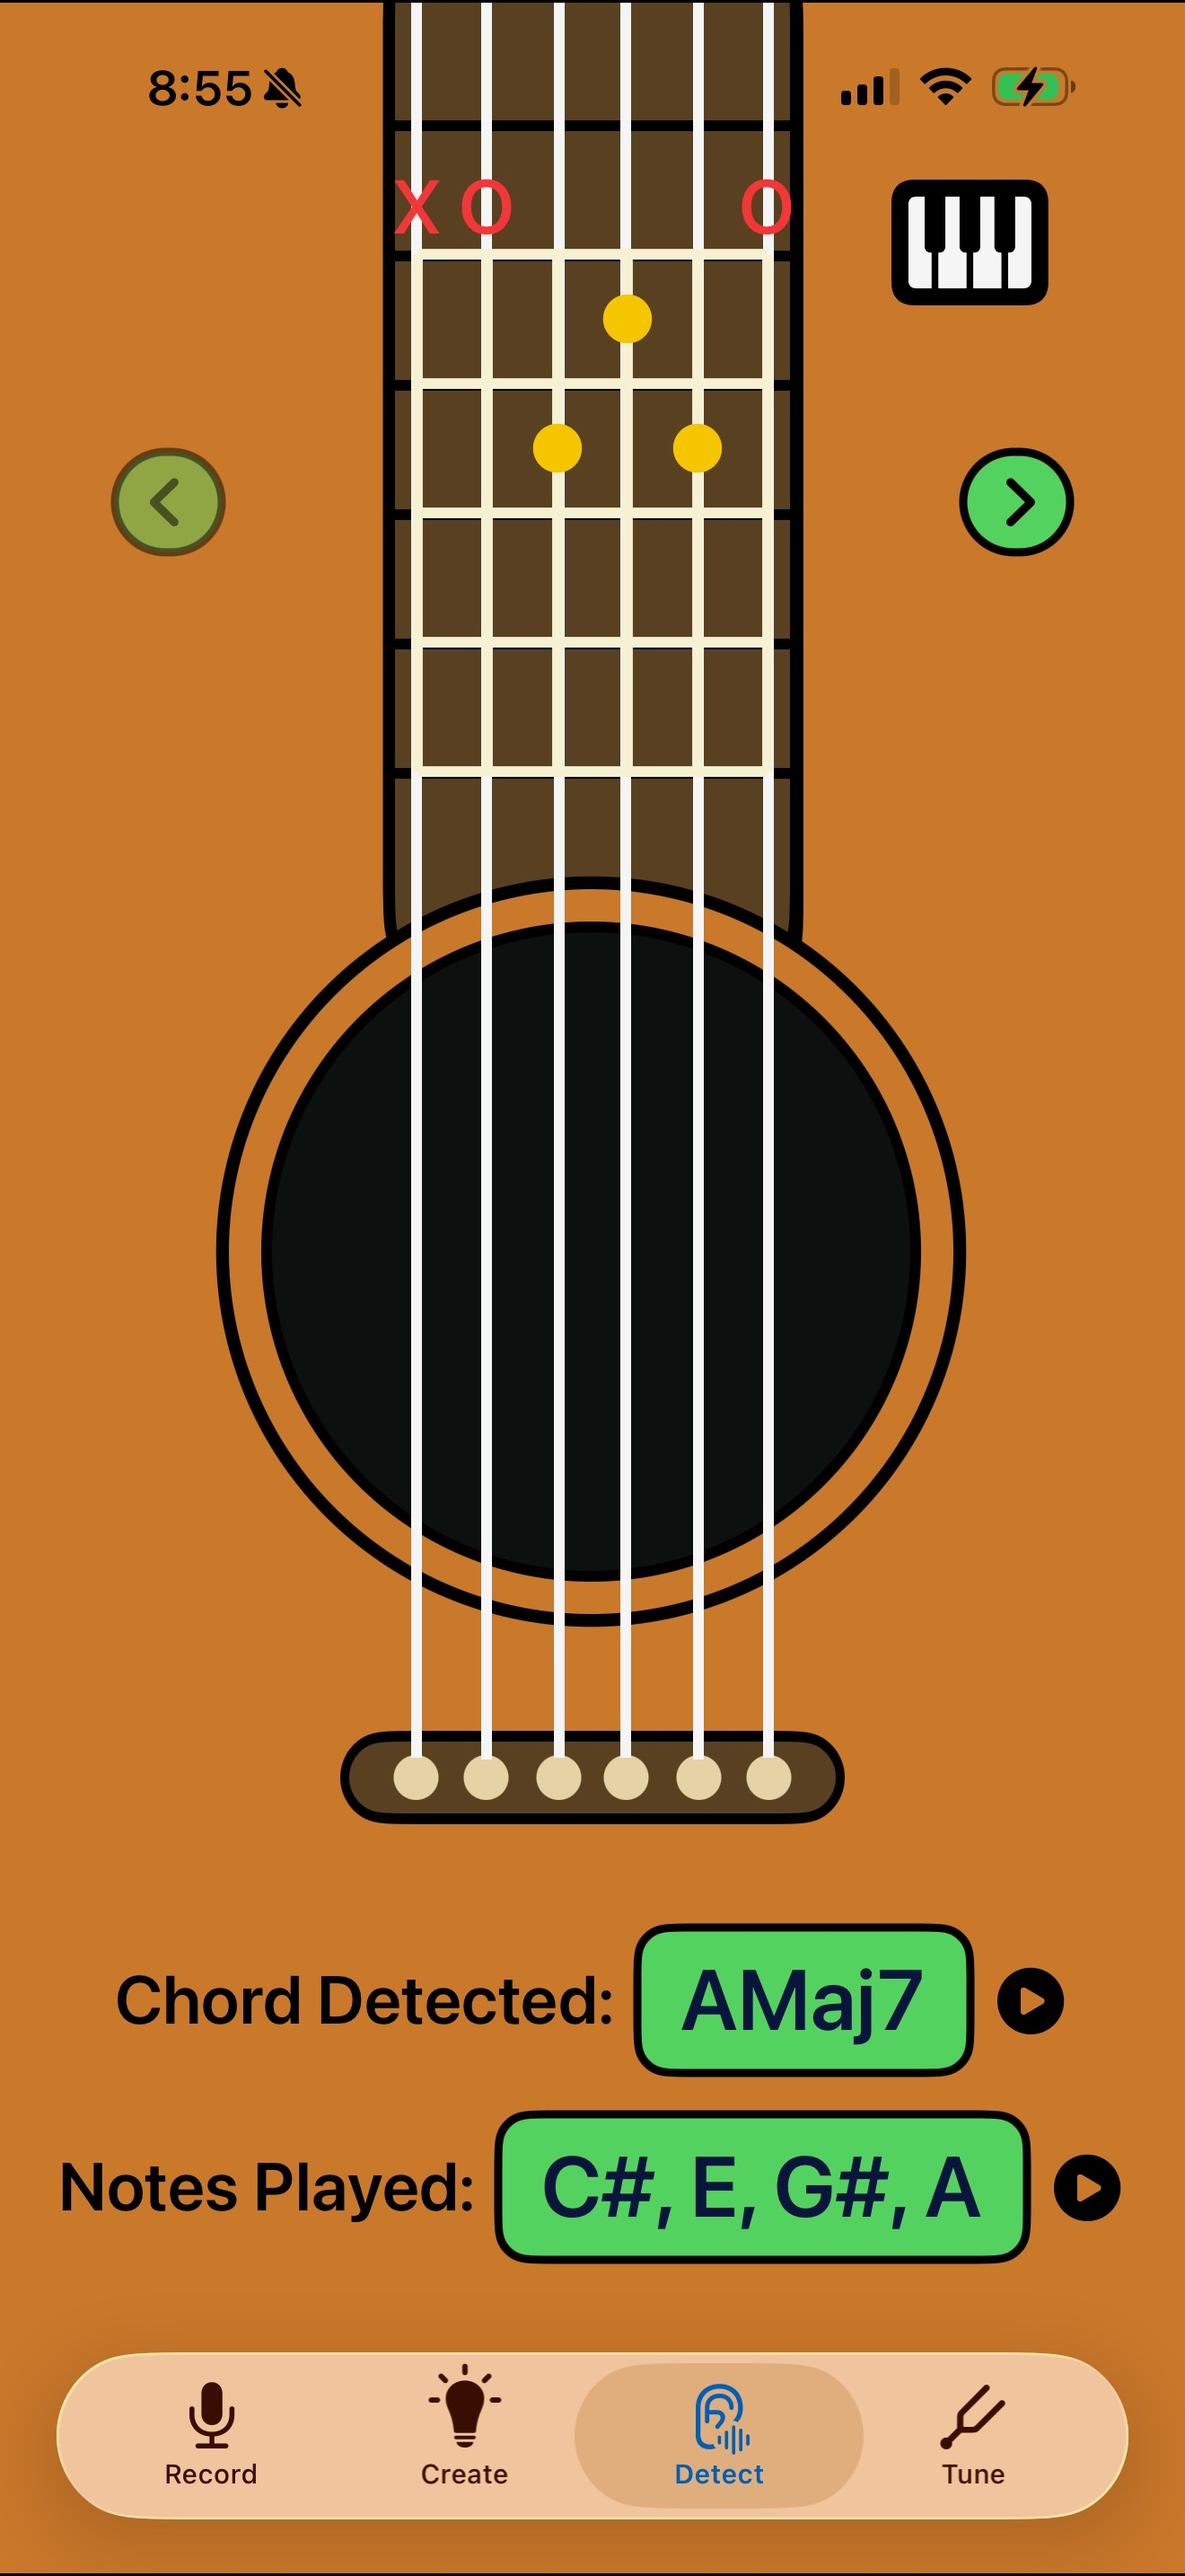
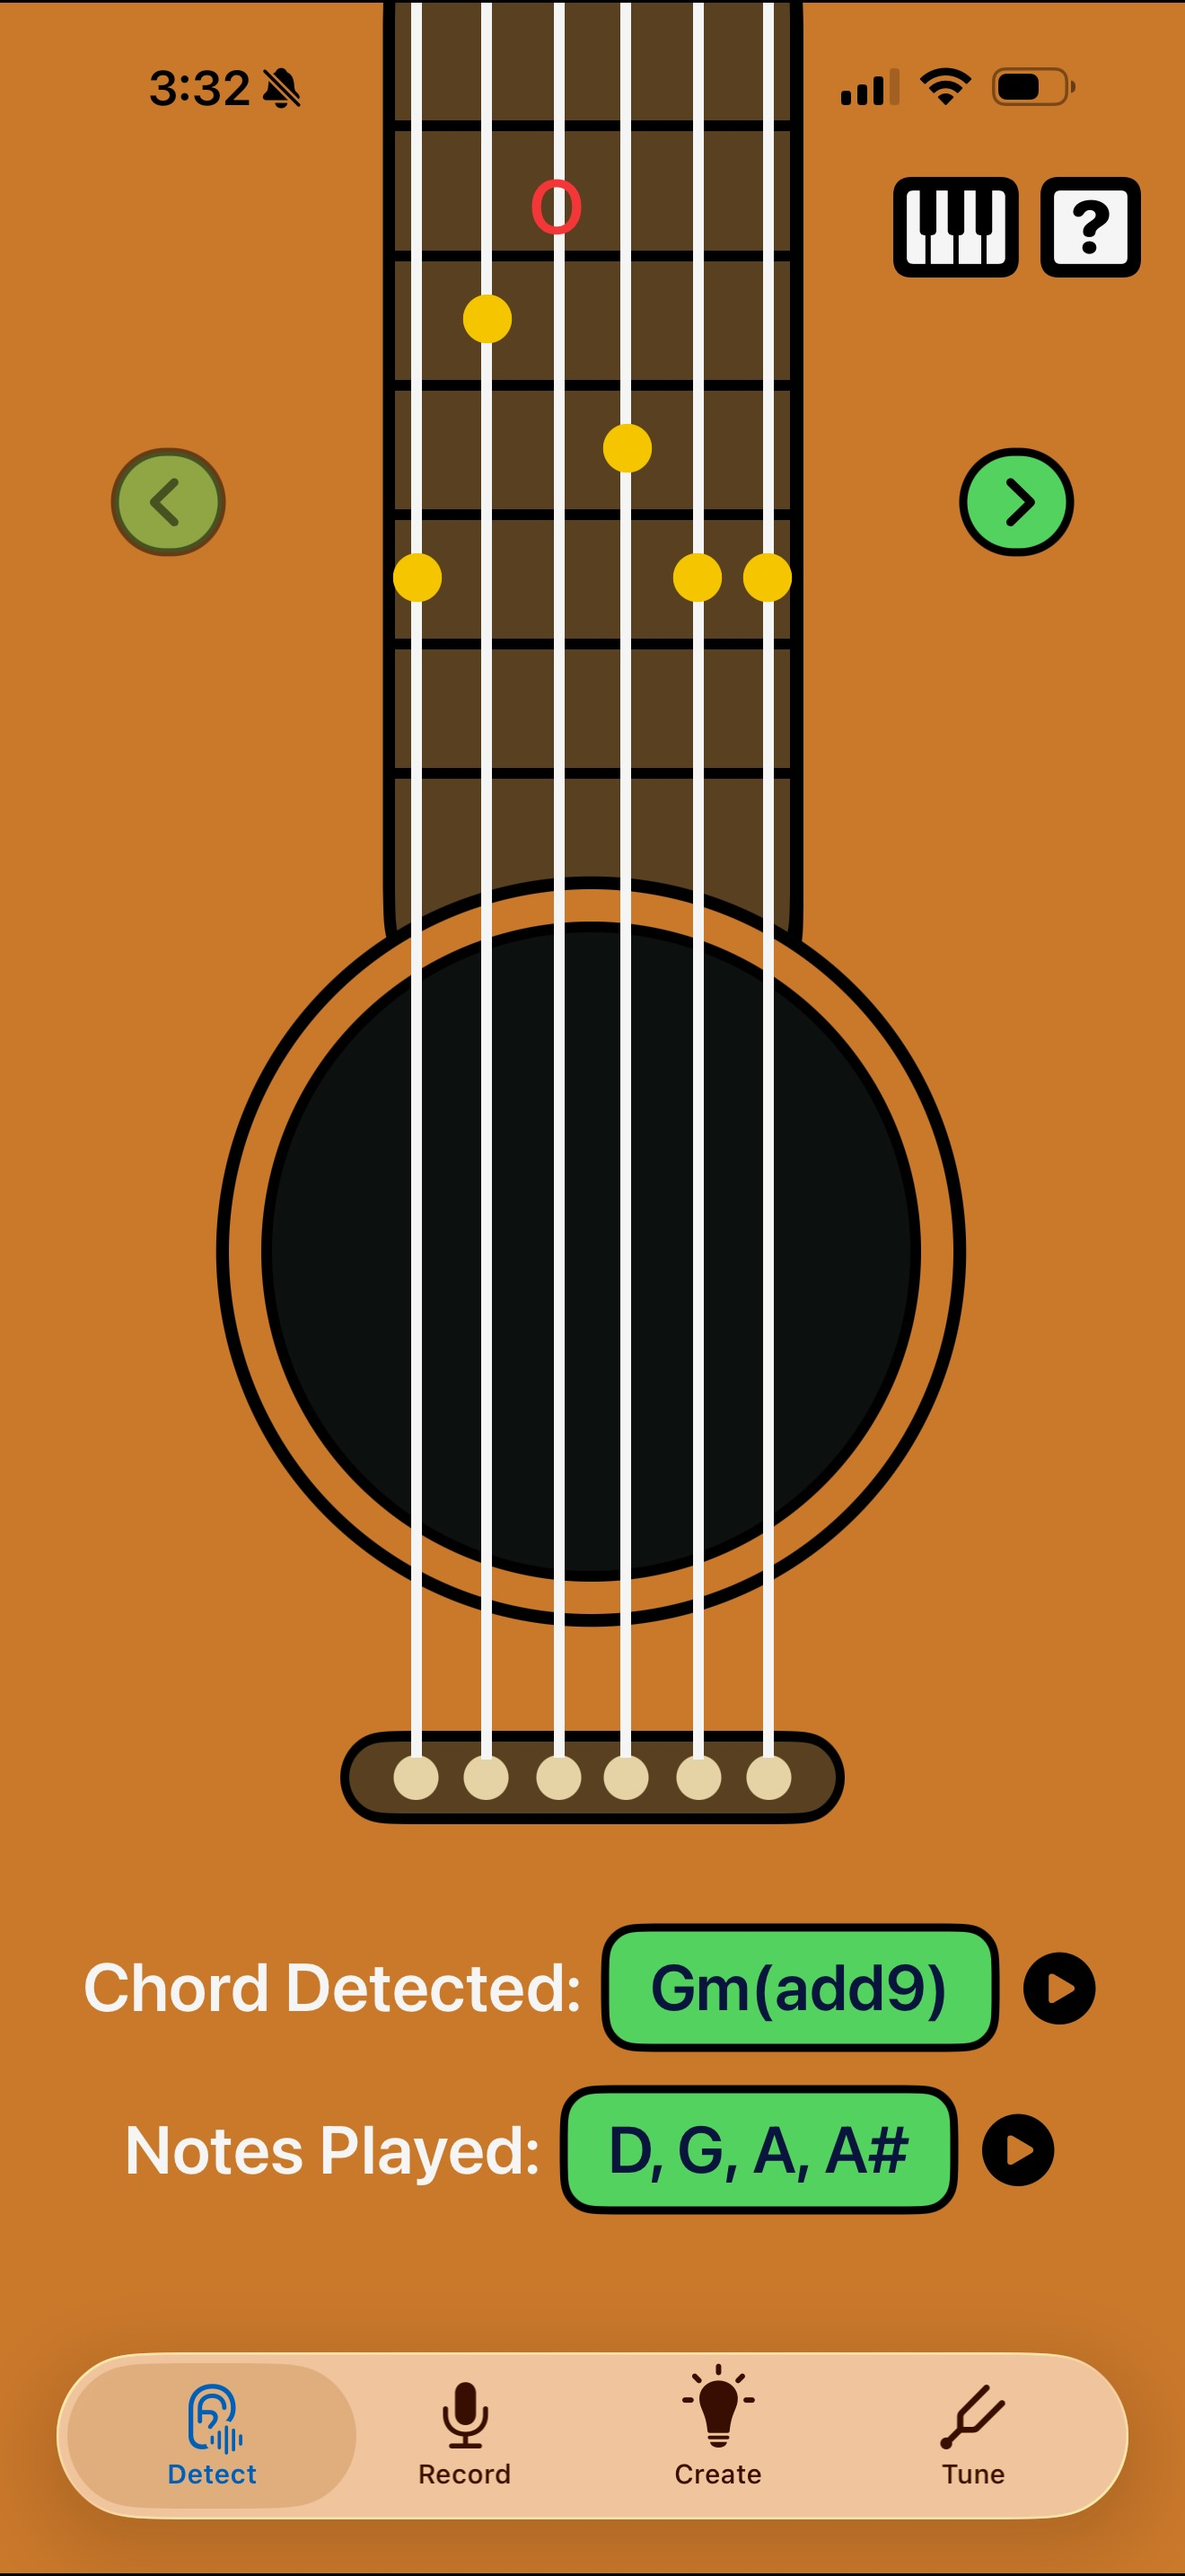
updated readme

diff --git a/README.md b/README.md
@@ -15,6 +15,6 @@ Guitar Buddy is an iOS app for guitarists and songwriters to aid in music produc
 **Screenshots of App:**
 
 <img src="Guitar%20Buddy/App%20Screenshots/Detect.jpeg" width="200"><img src="Guitar%20Buddy/App%20Screenshots/Tuner.jpeg" width="200">
- <img src="Guitar%20Buddy/App%20Screenshots/Record.jpeg" width="200"><img src="Guitar%20Buddy/App%20Screenshots/Create.jpeg" width="200"><img src="Guitar%20Buddy/App%20Screenshots/Tuner2.jpeg" width="200">
-<img src="Guitar%20Buddy/App%20Screenshots/Detect2.jpeg" width="200">
+ <img src="Guitar%20Buddy/App%20Screenshots/Record.jpeg" width="200"><img src="Guitar%20Buddy/App%20Screenshots/Create.jpeg" width="200"><img src="Guitar%20Buddy/App%20Screenshots/Detect2.jpeg" width="200">
+<img src="Guitar%20Buddy/App%20Screenshots/Tuner2.jpeg" width="200">
 
